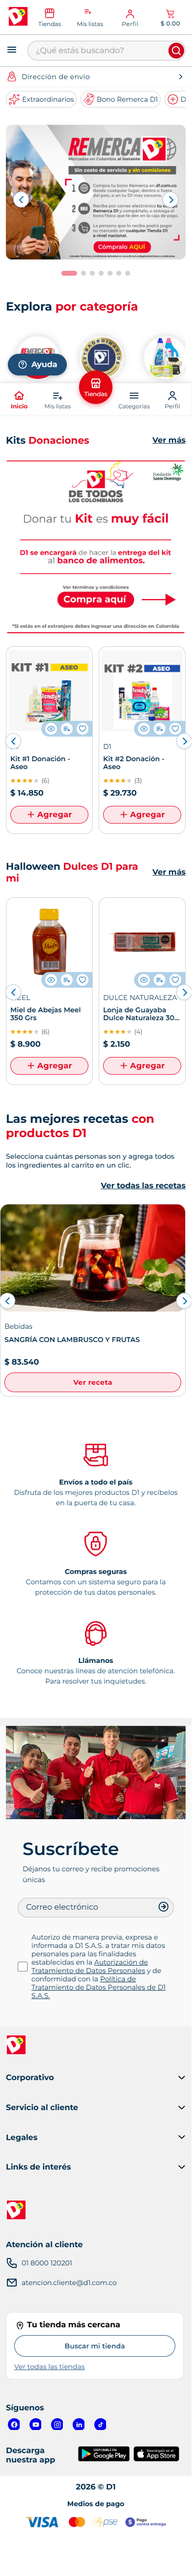
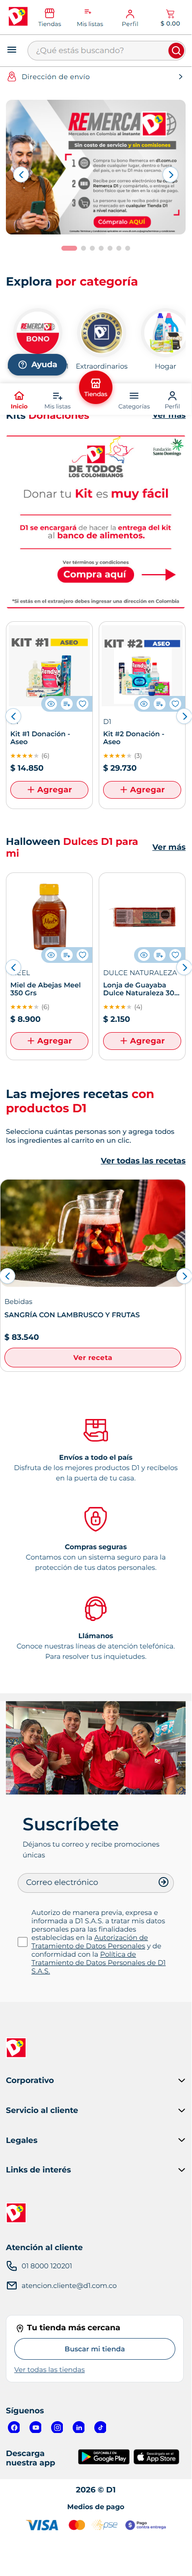
Docs: CHANGELOG y capturas de los ajustes de UI

diff --git a/docs/CHANGELOG.md b/docs/CHANGELOG.md
@@ -128,3 +128,5 @@ Ajustes antes de las capturas finales. No hay modo captura ni interruptores: la 
 **Capturas nuevas:** `20-inicio-barra-inferior`, `21-panel-busqueda-defecto`, `22-panel-busqueda-vivo`, `23-encabezado-sin-envios` (en 1440 y 390 px).
 
 - **Detalle de producto:** la foto principal usa la versión grande (800×800) y ocupa todo el ancho de su columna; antes, los productos que venían de los estantes mostraban la miniatura de 197 px. Archivos: `src/utils/asset.js`, `src/pages/ProductPage.jsx`, `src/styles/galeria.css`.
+- **Ajustes de UI – franja de categorías fuera:** se quitó la franja de pastillas bajo el encabezado (escritorio, móvil y barra compacta). El menú «Categorías» ahora navega (antes era decorativo) y suma «Bono Remerca D1» y «Donaciones», que solo estaban en la franja. Archivos: `Header/index.jsx`, `Header/CategoriesMenu.jsx`, `data/navigation.js`, `styles/app.css`; se eliminó `QuickAccessMenu.jsx`.
+- **Ajustes de UI – aire antes del pie:** 64 px (escritorio) y 40 px (móvil) entre «Suscríbete» y el pie, con los fondos a todo el ancho. Archivos: `components/footer/Footer.jsx`, `styles/footer.css`.
